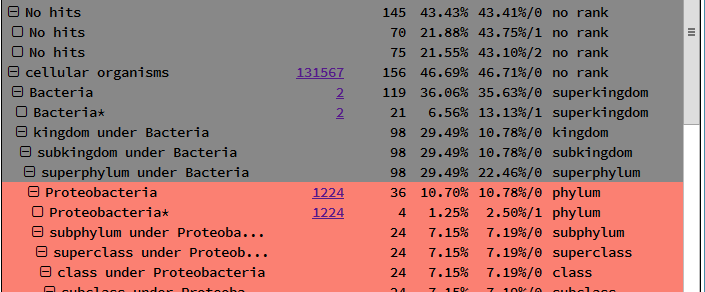
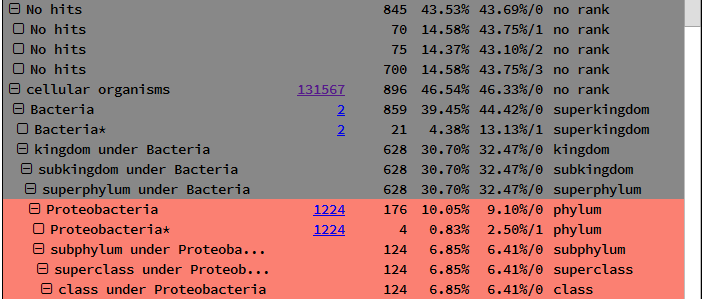
Update documentation

Changed region(s): [[0.0, 0.0, 1.0, 1.0], [0.4062, 0.2158, 0.5, 0.4623]]

diff --git a/html/documentation.htm b/html/documentation.htm
@@ -246,27 +246,31 @@
 			<li>size: norm | hits | nodes (see <a href="#size">Size parameter</a> for additinal information)</li>
 		</ul></li>
 	</ul>
-	The file must be in JSON format, with .config extention. The default configuration file (mtm.config) is :
-	<div class="code">{"layout":{"treemap":{"show":"yes","width":"800","height":"600","option":"yes","place":"left"},"table":{"show":"yes","width":"600","height":"600","option":"no","place":"right"},"options":{"show":"no","width":"800","option":"no","place":"bottom"}},"mtm":{"pattern":"{#N}","group":"taxon","labels":"on","upper":"off","font":"14","palette":"20","background":"black","size":"norm"}}</div>
+	The file must be in JSON format. The default configuration file (mtm-config.json) is :
+	<div class="code">{"layout":{"treemap":{"show":"yes","width":"800","height":"600","option":"yes","place":"left"},"table":{"show":"yes","width":"600","height":"600","option":"no","place":"right"},"options":{"show":"no","width":"800","option":"no","place":"bottom"}},"mtm":{"pattern":"#N","group":"taxon","labels":"on","upper":"on","font":"14","palette":"12","background":"black","size":"norm"}}</div>
 	<br/><a href="#top"><span class="fa fa-arrow-up"></span>Back</a>
 	
 	<h2 id="treemap">Treemap View</h2>
-	<p>The treemap view display each node of the tree as a rectangle. The area of the rectangle is proportional to the number of hits assigned to this node. By construction, a branch of the tree is also a rectangle with its area proportional to the number of hits that composed the branch.</p>
+	<p>All examples use a set of 3 artificial samples:
+		<ol><li>160 hits</li>
+			<li>174 hits</li>
+			<li>1600 hits</li>
+		</ol>
+	<br/>The treemap view display each node of the tree as a rectangle. The area of the rectangle is proportional to the number of hits assigned to this node. By construction, a branch of the tree is also a rectangle with its area proportional to the number of hits that composed the branch.</p>
 	<img src="../img/guide-2.0.png" alt="treemap"/>
-	<p>The example display two samples in the same treemap.</p>
 	<a href="#top"><span class="fa fa-arrow-up"></span>Back</a>
 	
 	<h3 id="orientation">Orientation</h3>
 	<img src="../img/guide-2.1.png" alt="orientation"/>
-	<p>By default, the label of each rectangle is display horizontally (see Bacteria*). 
-	<br/>If the rectangle is too thin, the label is display vertically (see cellular organisms*). 
-	<br/>If the rectangle is too thin and too small then the label is not display (see purple rectangle).</p>
+	<p>If the rectangle is more wide than tall, the label is display horizontally (see grey rectangle). 
+	<br/>If the rectangle is more tall than wide, the label is display vertically (see pink rectangles).  
+	<br/>If the label overflow the rectangle, it is truncated. (see pink rectangles)</p>
 	<a href="#top"><span class="fa fa-arrow-up"></span>Back</a>
 	
 	<h3 id="name">Name and Name*</h3>
 	<img src="../img/guide-2.2.png" alt="proteobacteria"/>
-	<p>The hits assigned to a taxon without children (leaf) are represented by a rectangle labelled by the "[taxon name]". 
-	<br/>If one ancestor (internal node) has assigned hits, it is represented by a rectangle labelled by "[taxon name]*"<br/>In the example, the orange rectangle "Escherichia coli" is a leaf of the tree. The red rectangle "Proteobacteria*" represents the hits assigned to the internal node Proteobacteria. The branch of all the proteobacteria is composed by the two red rectangles, the blue one and the two orange. (The branch ends also as a rectangle shape with area proportional to the sum of the hits in the branch).</p>
+	<p>The hits assigned to a taxon without children (leaf) are represented by a rectangle labelled by the "[taxon name]".
+	<br/>If one ancestor (internal node) has assigned hits, it is represented by a rectangle labelled by "[taxon name]*" (taxon star)<br/>In the example, the dark green rectangle "Not assigned" is a leaf of the tree. The purple rectangle "Bacteria*" represents the hits assigned to the internal node Bacteria. The branch of all the bacteria is composed by the two purple rectangles, and all the rectangles at its right (proteobacteria, Escherichia, Mycobacterium...)</p>
 	<a href="#top"><span class="fa fa-arrow-up"></span>Back</a>
 	
 	<h3 id="mouseover">Mouseover</h3>
@@ -275,7 +279,7 @@
 	</p>
 	
 	<h4 id="selection">Selection</h4>
-	<p>On mouseover a rectangle, the node is selected (see darked Proteobacteria*).</p>
+	<p>On mouseover a rectangle, the node is selected (see darked Bacteria*).</p>
 	
 	<h4 id="tooltip">Tooltip</h4>
 	<p>A tooltip displayed additional information about the selected node.
@@ -303,12 +307,16 @@
 		<li>Click on the header will zoom out at the parent node.</li>
 	</ul>
 	We notice that zoom action in treemap view modify table view (see section <a href="#focus">Focus</a> for additional information).</p>
-	<p>In addition, we can emphasise the distinction between branch and internal node (see section <a href="#name">Name and Name*</a> for additional information). In the example you see that Proteobacteria (the branch) is compose of 36 hits rather than Proteobacteria* of sample 2 (the node) represent 8 hits.
+	<p>In addition, we can emphasise the distinction between branch and internal node (see section <a href="#name">Name and Name*</a> for additional information). In the example you see that Bacteria (the branch) is compose of 859 hits rather than Bacteria* of sample 3 (the node) represent 210 hits.
 	</p>
 	<a href="#top"><span class="fa fa-arrow-up"></span>Back</a>
 	
 	<h2 id="table">Table View</h2>
-	<p>The table view display each node as a line of a table. The hierarchy of the nodes is represented by the indentation of taxa name. Information displayed are :
+	<p>All examples use a set of 2 artificial samples:
+		<ol><li>160 hits</li>
+			<li>174 hits</li>
+		</ol>
+	<br/>The table view display each node as a line of a table. The hierarchy of the nodes is represented by the indentation of taxa name. Information displayed are :
 	<ul><li>Taxon name</li>
 		<li>Taxon ID (see <a href="http://www.ncbi.nlm.nih.gov/taxonomy" target="_blank">NCBI taxonomy</a>)</li>
 		<li>Number of assigned hits. For internal node, it is the number of hits in the branch starting at this node. For leaf node, it is the number of hits assigned to this node. (see section <a href="#name">Name and Name*</a> for additional information)</li>
@@ -348,6 +356,12 @@
 	<a href="#top"><span class="fa fa-arrow-up"></span>Back</a>
   
 	<h2 id="options">Options</h2>
+	<p>All examples use a set of 3 artificial samples:
+		<ol><li>160 hits</li>
+			<li>174 hits</li>
+			<li>1600 hits</li>
+		</ol>
+	</p>
 	<img src="../img/guide-4.0.png" alt="options"/>
 	<a href="#top"><span class="fa fa-arrow-up"></span>Back</a>
 	
@@ -359,7 +373,7 @@
 	<img src="../img/guide-4.1.1.png" alt="by taxon"/>
 	<p>Each taxon define one color. (default)</p>
 	<img src="../img/guide-4.1.1.1.png" alt="map by taxon"/><img src="../img/guide-4.1.1.2.png" alt="table by taxon"/>
-	<p>The two "Proteobacteria*" are red. The added nodes for rank kingdom, subkingdom and superphylum under Bacteria are also red.
+	<p>The tree "Proteobacteria*" are red. The added nodes for rank kingdom, subkingdom and superphylum under Bacteria are also red.
 	</p>
 	
 	<h4 id="byrank">By rank</h4>
@@ -379,7 +393,7 @@
 	<img src="../img/guide-4.1.4.png" alt="majority"/>
 	<p>For each node, all the sample are colored according to the sample with the higher number of reads.</p>
 	<img src="../img/guide-4.1.4.1.png" alt="map majority"/><img src="../img/guide-4.1.4.2.png" alt="table majority"/>
-	<p>The two "Proteobacteria*" are green because sample 2 have more reads than sample 1. The nodes added to fulfil the hierarchy have a different color.
+	<p>The tree "Proteobacteria*" are pink because sample 3 have more reads than sample 1 and 2. The nodes added to fulfil the hierarchy have a different color.
 	</p>
 	<a href="#top"><span class="fa fa-arrow-up"></span>Back</a>
 	
@@ -501,16 +515,17 @@
 	<a href="#top"><span class="fa fa-arrow-up"></span>Back</a>
 	
 	<h3 id="pattern">Pattern</h3>
-	<p>By default, the rectangles of The <a href="#treemap">treemap view</a> are labelled by taxon name. This can be customize using a pattern (see 5). Fields are indicated by "# Code".</p>
+	<p>By default, the rectangles of the <a href="#treemap">treemap view</a> are labelled by taxon name. This can be customize using a pattern (see 5). Fields are indicated by "# Code".</p>
 	<ul><li>#N for taxon name,</li>
 		<li>#I for taxon id,</li>
 		<li>#H for assigned hits,</li>
-		<li>#P for percentages of hits according to the current view (see the section <a href="#zoom">Zoom</a> for additional information),</li>
 		<li>#R for Phylogenic rank,</li>
 		<li>#S for sample number.</li>
+		<li>#P for percentages of hits according to the sample (see the section <a href="#zoom">Zoom</a> for additional information),</li>
+		<li>#V for percentages of hits according to the current view (see the section <a href="#size">Size parameter</a> for additional information),</li>
 	</ul>
-	<p>Each line is delimited by "{" and "}". Other character can be added without restriction.</p>
-	<div class="code">{#N}{#H (#P%)}</div>
+	<p>Other character can be added without restriction.</p>
+	<div class="code">#N-##S</div>
 	<p>
 	<img src="../img/guide-5.5.png" alt="pattern"/>
 	</p>
